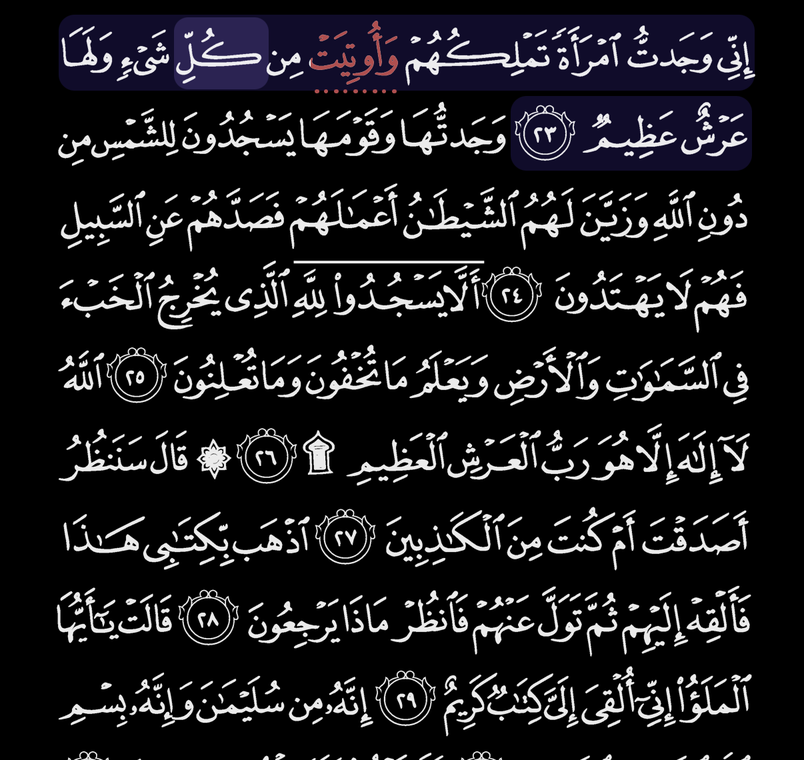
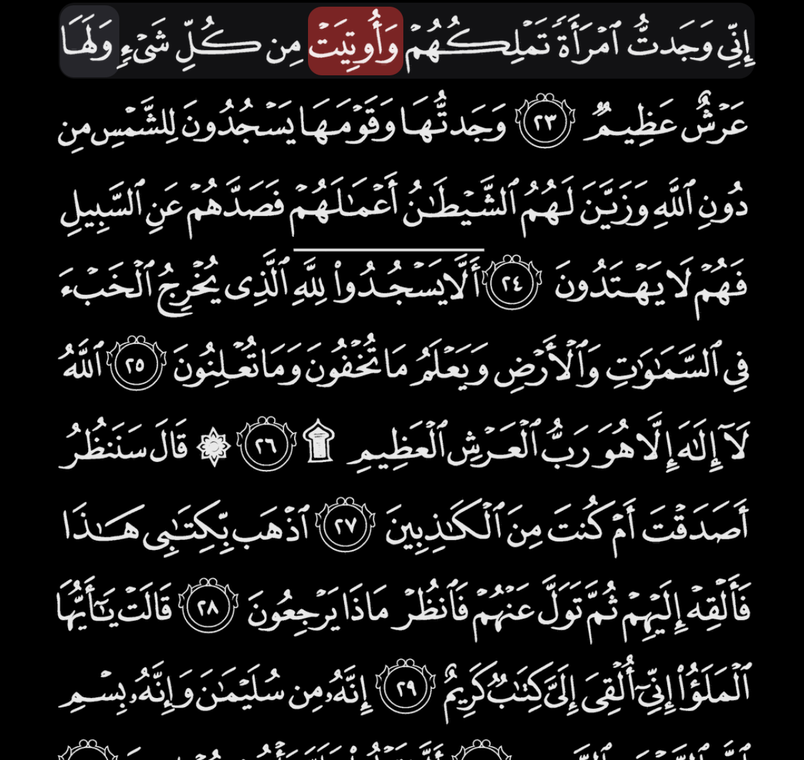
Premium page: the preview retaken with the highlights
From this branch's flow 18 on iOS (run 43683761759: rl04-marks, rl08-marks-dark),
cropped as before (the page, 1206 by 1140, at 804 by 760).

Changed region(s): [[0.0622, 0.0, 0.9639, 1.0]]

diff --git a/src/components/reciteLive/CheckIntroPage.tsx b/src/components/reciteLive/CheckIntroPage.tsx
@@ -57,7 +57,7 @@ export function CheckIntroPage({
               source={PREVIEW[isDark ? 'dark' : 'light']}
               style={{ width: frameWidth, height: frameHeight }}
               resizeMode="cover"
-              accessibilityLabel="A page of An-Naml with a wrong word highlighted in red and a haraka slip in amber"
+              accessibilityLabel="A page of An-Naml with its mistakes highlighted"
             />
           </View>
           <Text style={[styles.title, { color: palette.text }]} maxFontSizeMultiplier={1.4} accessibilityRole="header">
